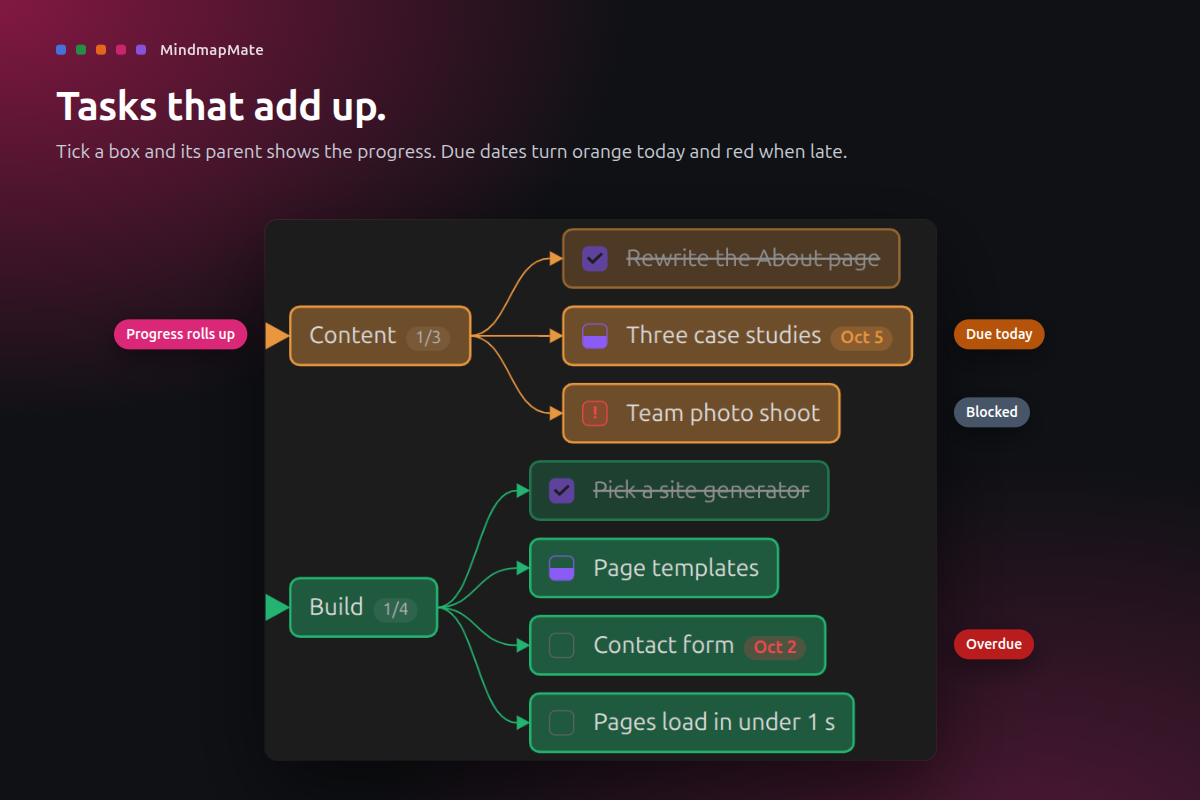
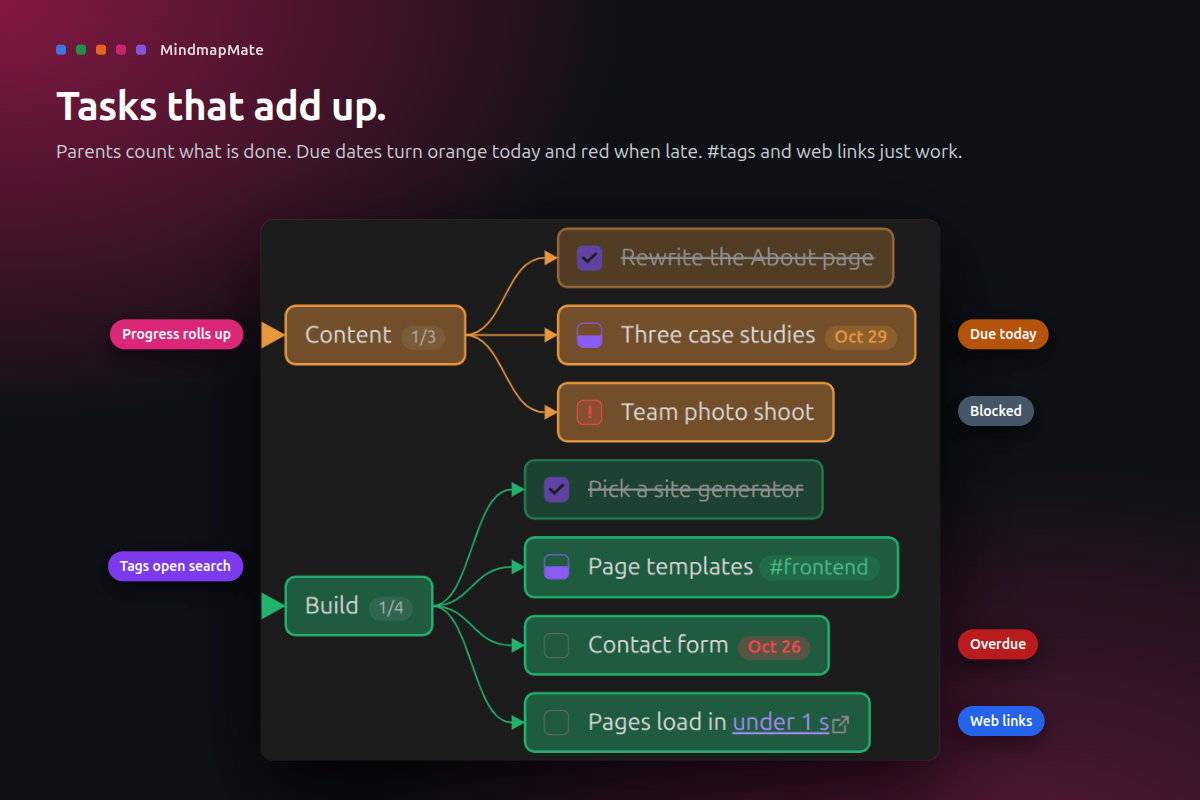
Store images and GIF for 1.1.0: tags, web links, pan key
Due dates in the showcase board are now relative to today.

diff --git a/README.md b/README.md
@@ -21,11 +21,11 @@ Canvas gives you space to think but knows nothing about progress, and a task lis
 
 ![Tab adds a child, Enter finishes, click a node for its toolbar](docs/images/2-add.png)
 
-![Progress rolls up to each parent; due dates turn orange today and red when late](docs/images/3-tasks.png)
+![Progress rolls up to each parent; due dates turn orange today and red when late; tags show as pills and web links open in your browser](docs/images/3-tasks.png)
 
 ![One board laid out on both sides, downward, and in a light theme](docs/images/4-looks.png)
 
-![MindmapMate settings: mouse wheel, copy, export headings, grid dots, due date colors](docs/images/5-settings.png)
+![MindmapMate settings: mouse wheel, pan key, copy, export headings, grid dots, due date colors](docs/images/5-settings.png)
 
 ## How to use
 
